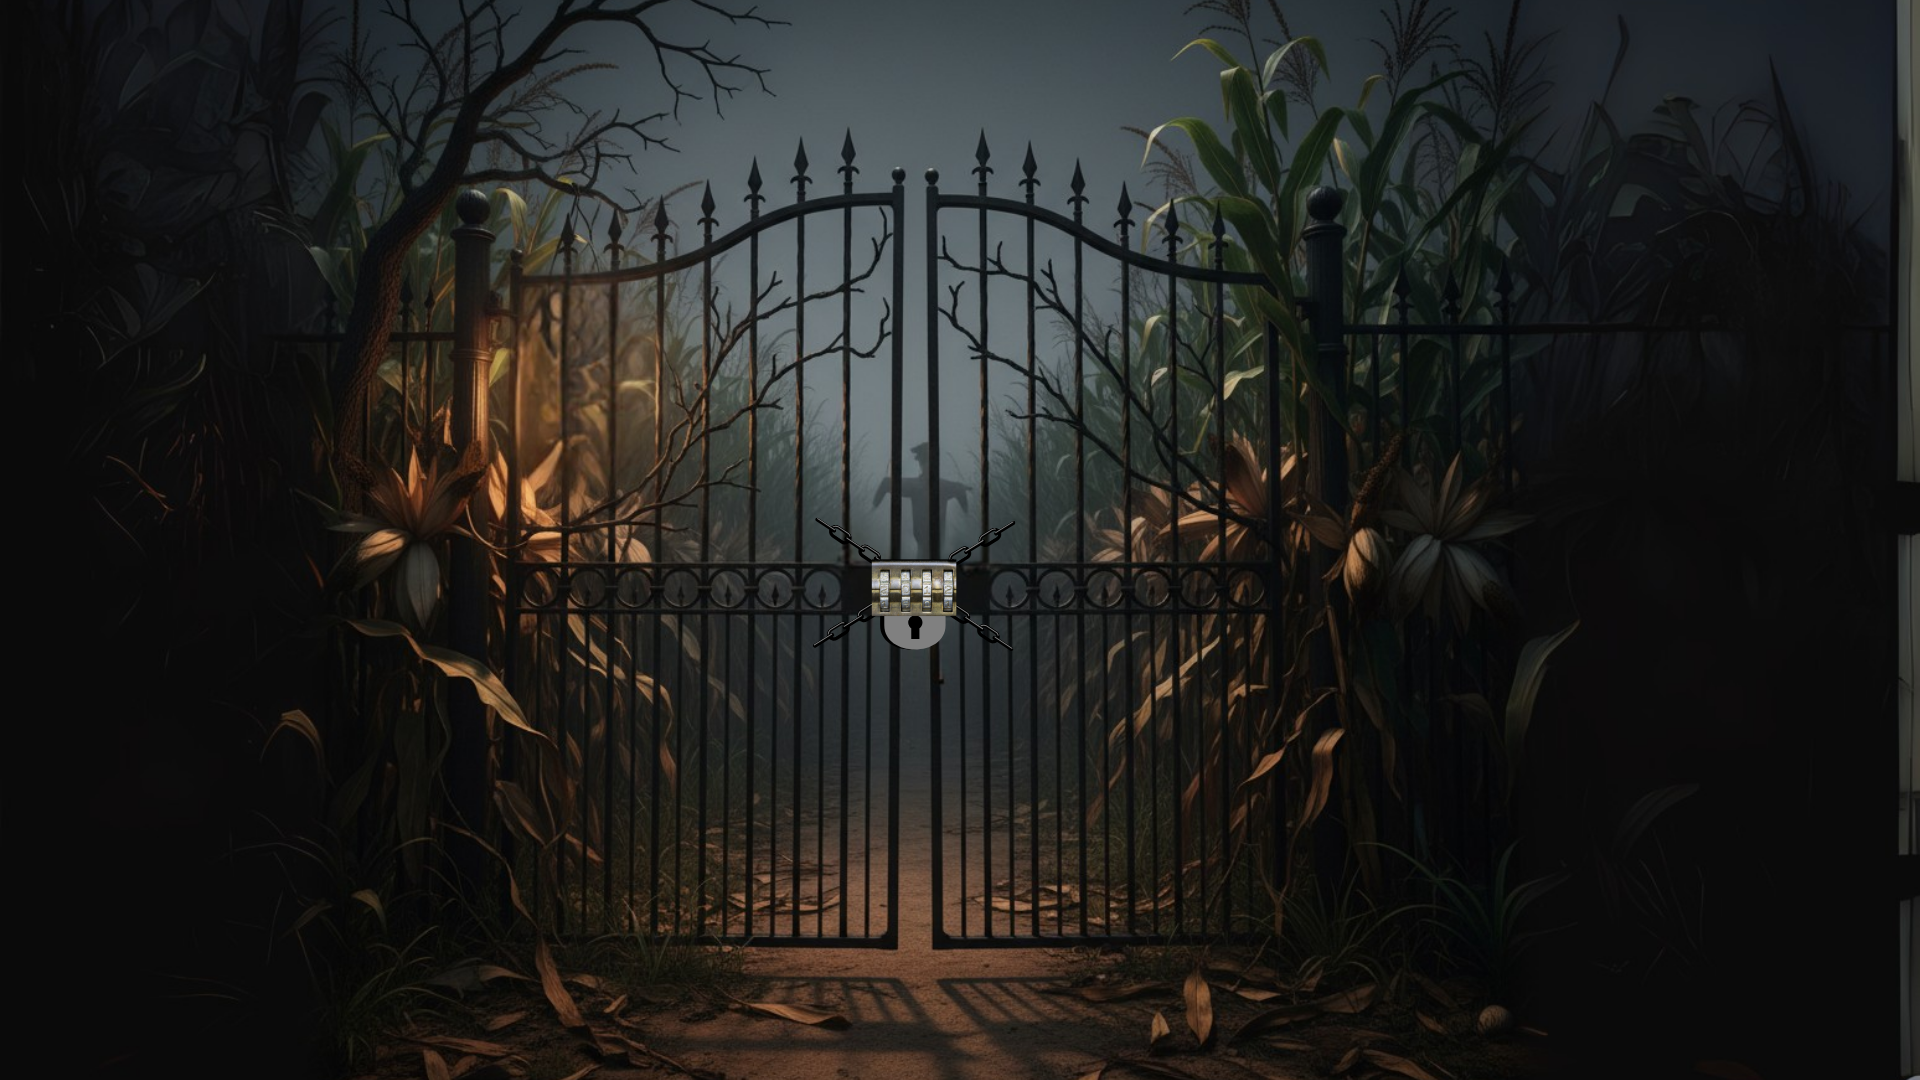
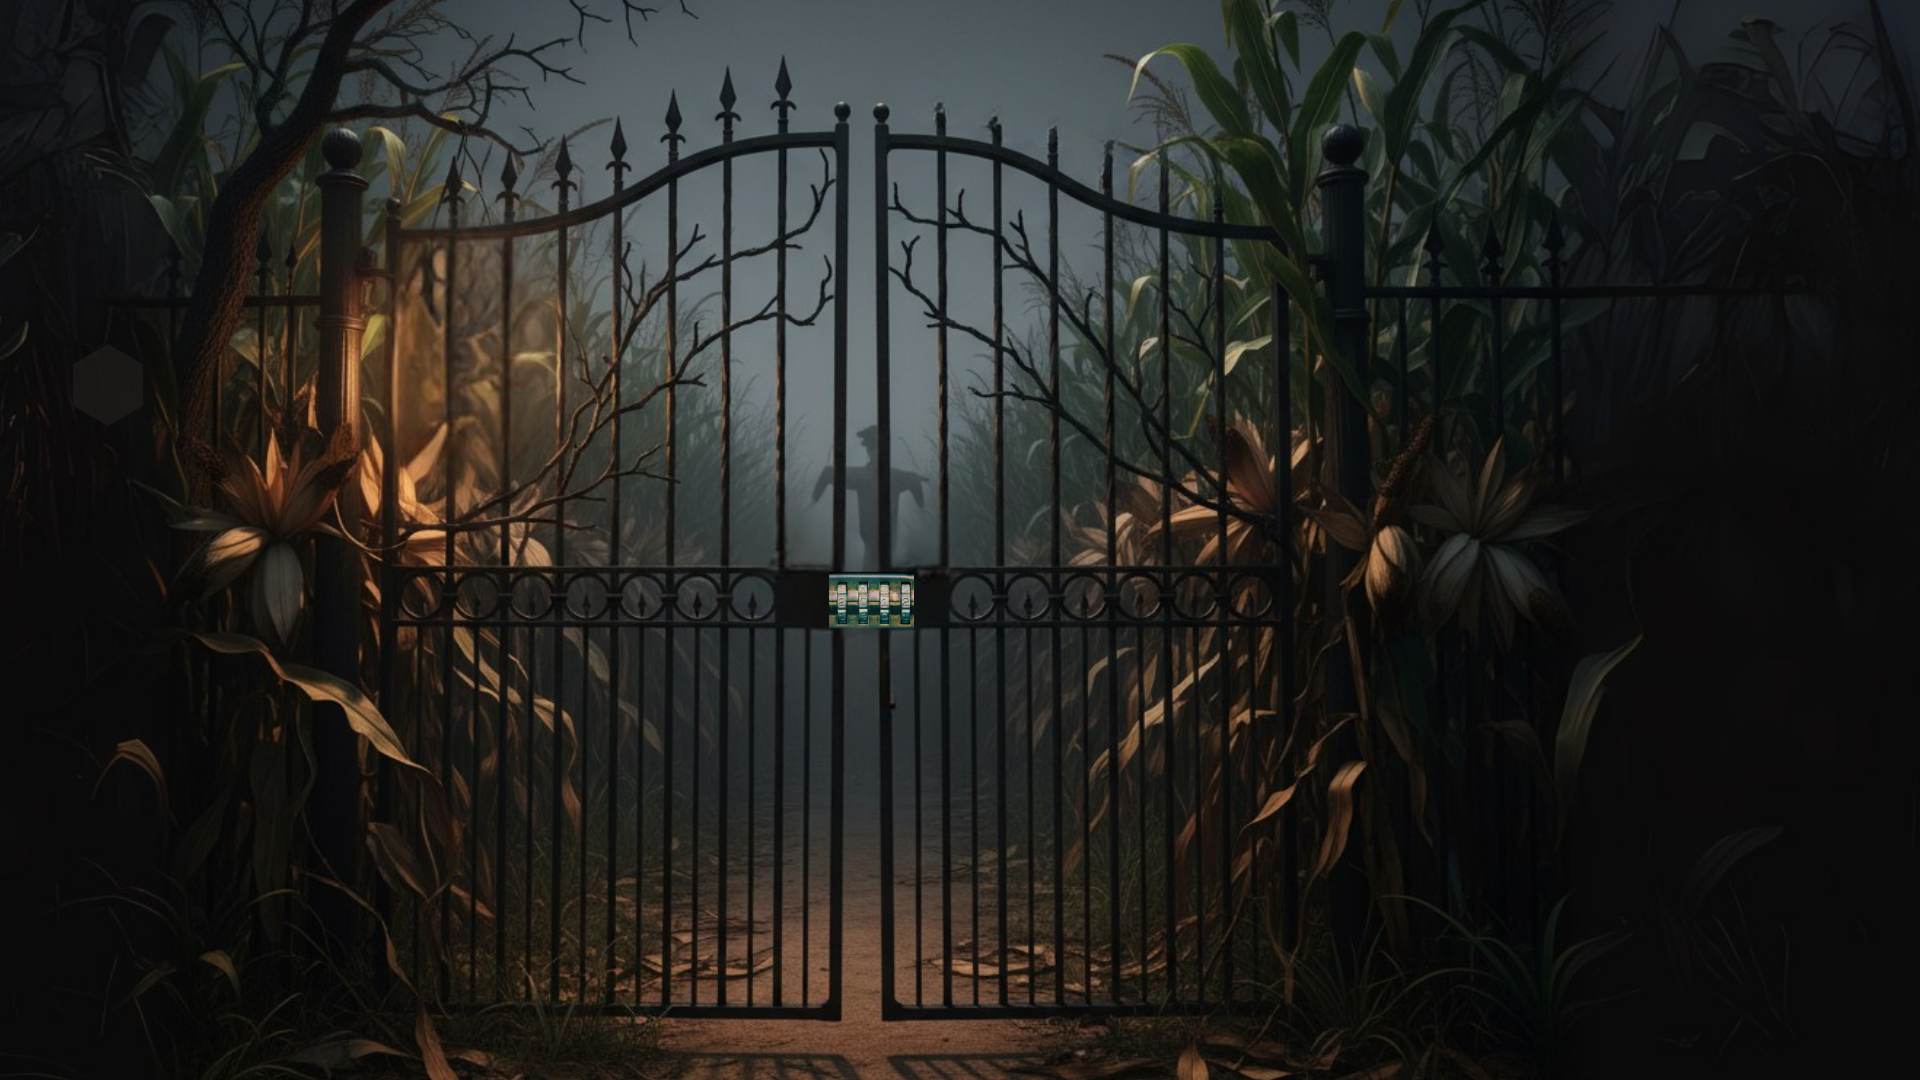
remove math, add riddles

diff --git a/maze/src/styles/Room5.scss b/maze/src/styles/Room5.scss
@@ -3,52 +3,87 @@
     min-height: 100dvh;
     width: 100%;
     background: center / cover no-repeat;
-    padding: clamp(12px, 2vw, 24px);
-
-    .clue-panel {
+    overflow: hidden;
+    color: #e9edf7;
+    /* --- Generic node styling --- */
+    .node {
         position: absolute;
-        left: clamp(10px, 3vw, 24px);
-        top: clamp(10px, 3vw, 24px);
-        width: min(92vw, 420px);
-        background: rgba(8, 10, 14, 0.55);
-        border: 1px solid rgba(255,255,255,0.08);
-        border-radius: 12px;
-        backdrop-filter: blur(4px);
-        color: #e7ecf4;
-        padding: clamp(12px, 2vw, 18px);
+        transform: translate(-50%, -50%);
+        z-index: 3;
+        pointer-events: none; /* container ignores clicks */
 
-        h2 {
-            margin: 0 0 10px;
-            font-size: clamp(18px, 2.2vw, 22px);
-            font-weight: 700;
-        }
-
-        .clue-list {
-            margin: 0 0 10px 18px;
-            padding: 0;
-
-            li {
-                margin: 6px 0;
-                line-height: 1.35;
-            }
-        }
-
-        .clue-note {
-            margin-top: 8px;
-            font-size: 0.95rem;
+        .node-btn {
+            --w: var(--nodeWidthPx, 160px);
+            width: var(--w);
+            height: clamp(32px, 5.6vh, 56px);
+            border-radius: 18px;
+            border: 1px solid rgba(255, 255, 255, 0.08);
+            background: rgba(20, 22, 30, 0.22);
+            backdrop-filter: blur(3px);
+            position: relative;
+            pointer-events: auto; /* button handles clicks */
+            cursor: pointer;
+            overflow: visible;
             opacity: 0.9;
+            transition: opacity 0.18s ease, border-color 0.18s ease;
 
-            strong {
-                letter-spacing: .05em;
+            &:hover {
+                opacity: 0.9;
+                border-color: rgba(255, 255, 255, 0.5);
+            }
+
+            .node-glow {
+                content: "";
+                position: absolute;
+                inset: -2px;
+                border-radius: inherit;
+                box-shadow: 0 0 12px 0 rgba(36, 158, 79, .6);
+                pointer-events: none;
+            }
+
+            .node-label {
+                position: absolute;
+                inset: 0;
+                display: grid;
+                place-items: center;
+                font-size: 12px;
+                letter-spacing: 0.08em;
+                text-transform: uppercase;
+                color: rgba(220, 230, 255, 0.14); /* subtle/hidden */
+                user-select: none;
             }
         }
+    }
+    /* --- Individual riddle node placement & sizing --- */
+    .node--thorn-gate {
+        left: 80%;
+        top: 33%;
+        --nodeWidthPx: 30px;
+    }
+
+    .node--hex-harvest {
+        left: 35%;
+        top: 82%;
+        --nodeWidthPx: 30px;
+    }
+
+    .node--web-row-end {
+        left: 40%;
+        top: 40%;
+        --nodeWidthPx: 30px;
+    }
+
+    .node--crow-crossroads {
+        left: 64%;
+        top: 34%;
+        --nodeWidthPx: 30px;
     }
     /* click node to open the lock page */
     .node-open-lock {
         --size: clamp(18px, 2.2vw, 22px);
         position: absolute;
-        right: 49.8%;
-        bottom: 41%;
+        right: 52%;
+        bottom: 40%;
         width: 80px;
         height: 50px;
         border-radius: 18px; /* rounded rectangle corners */
@@ -60,6 +95,95 @@
 
         &:hover {
             background: rgba(255,255,255,0.2);
+        }
+    }
+    /* --- Riddle modal --- */
+    .riddle-modal {
+        position: fixed;
+        inset: 0;
+        z-index: 20;
+
+        .backdrop {
+            position: absolute;
+            inset: 0;
+            background: rgba(0, 0, 0, 0.5);
+        }
+
+        .riddle-card {
+            position: absolute;
+            left: 50%;
+            top: 50%;
+            transform: translate(-50%, -50%);
+            width: min(92vw, 720px);
+            background: rgba(18, 20, 28, 0.92);
+            color: #e9edf7;
+            border: 1px solid rgba(255, 255, 255, 0.08);
+            border-radius: 16px;
+            box-shadow: 0 20px 60px rgba(0, 0, 0, 0.5);
+            overflow: hidden;
+        }
+
+        .riddle-head {
+            display: flex;
+            justify-content: space-between;
+            align-items: center;
+            padding: 14px 16px;
+            border-bottom: 1px solid rgba(255, 255, 255, 0.06);
+
+            h2 {
+                margin: 0;
+                font-size: clamp(16px, 2.2vw, 22px);
+            }
+
+            .close {
+                appearance: none;
+                border: none;
+                background: transparent;
+                color: #e9edf7;
+                font-size: 20px;
+                cursor: pointer;
+                line-height: 1;
+                padding: 6px;
+                border-radius: 8px;
+
+                &:hover {
+                    background: rgba(255, 255, 255, 0.08);
+                }
+            }
+        }
+
+        .riddle-text {
+            margin: 0;
+            padding: 16px;
+            white-space: pre-wrap;
+            font: 400 clamp(14px, 1.8vw, 16px) / 1.5 ui-sans-serif, system-ui, -apple-system, Segoe UI, Roboto, sans-serif;
+        }
+
+        .answer-note {
+            padding: 0 16px 12px;
+            color: rgba(190, 220, 255, 0.85);
+            font-size: 14px;
+        }
+
+        .riddle-actions {
+            display: flex;
+            justify-content: flex-end;
+            gap: 10px;
+            padding: 12px 16px 16px;
+
+            button {
+                appearance: none;
+                border: 1px solid rgba(255, 255, 255, 0.18);
+                background: rgba(12, 14, 22, 0.6);
+                color: #e9edf7;
+                padding: 8px 12px;
+                border-radius: 10px;
+                cursor: pointer;
+
+                &:hover {
+                    background: rgba(12, 14, 22, 0.75);
+                }
+            }
         }
     }
 }

diff --git a/maze/src/rooms/Room5.jsx b/maze/src/rooms/Room5.jsx
@@ -1,24 +1,79 @@
-import { useNavigate } from "react-router-dom";
-import "./../styles/Room5.scss";
+import { useState } from "react";
+import { useNavigate } from "react-router-dom";
+import "../styles/Room5.scss";
 
-// ✅ make sure this file exists at src/assets/backgrounds/room5_bg.png
-import bg from "../assets/backgrounds/room5_bg.png";
+import room5Bg from "../assets/backgrounds/room5_bg.png";
+
+const NODES = [
+    {
+        id: "thorn-gate",
+        title: "Slot 1",
+        riddle:
+            "At the maze’s end, the iron waits,\nIts crown of points seals shut the gates.\nSharp as teeth, they pierce the sky -\nOnly those who see can pass by.",
+        answer: "7",
+    },
+    {
+        id: "hex-harvest",
+        title: "Slot 2",
+        riddle:
+            "Painted on a barn by the edge of the maze,\nA charm against blight and ill-willed gaze.\nSix petals circle, warding the night -\nHow many points hold back the fright?",
+        answer: "6",
+    },
+    {
+        id: "web-row-end",
+        title: "Slot 3",
+        riddle:
+            "Where moonlight threads and gloom,\nA silver web is strung like loom.\nIts maker waits, both still and sly -\nCount the legs that guard nearby.",
+        answer: "8",
+    },
+    {
+        id: "crow-crossroads",
+        title: "Slot 4",
+        riddle:
+            "Where crows debate which way to soar,\nThe path splits clean no more.\nChoose with care or wander more -\nHow many ways from the crossing core?",
+        answer: "4",
+    },
+];
+
+const RiddleModal = ({ open, node, onClose }) => {
+    if (!open || !node) return null;
+    return (
+        <div className="riddle-modal" role="dialog" aria-modal="true">
+            <div className="riddle-card">
+                <div className="riddle-head">
+                    <h2>{node.title}</h2>
+                    <button className="close" onClick={onClose} aria-label="Close">✕</button>
+                </div>
+                <pre className="riddle-text">{node.riddle}</pre>
+                <div className="riddle-actions">
+                    <button onClick={onClose}>Close</button>
+                </div>
+            </div>
+            <div className="backdrop" onClick={onClose} />
+        </div>
+    );
+};
 
 export default function Room5() {
+    const [openNode, setOpenNode] = useState(null);
     const nav = useNavigate();
 
     return (
-        <div className="room5" style={{ backgroundImage: `url(${bg})` }}>
-            {/* Clues are always visible on this page */}
-            <aside className="clue-panel">
-                <h2>Resolve for each digit</h2>
-                <ul className="clue-list">
-                    <li>Double 5, then remove 3</li>
-                    <li>Product of 3 and 2</li>
-                    <li>Add 9 to 6 roll back 7</li>
-                    <li>Double up on 2</li>
-                </ul>
-            </aside>
+        <div className="room5" style={{ backgroundImage: `url(${room5Bg})` }}>
+            {/* Riddle nodes */}
+            {NODES.map((n) => (
+                <div key={n.id} className={`node node--${n.id}`}>
+                    <button
+                        className="node-btn"
+                        onClick={() => setOpenNode(n)}
+                        aria-label={n.title}
+                        title="Open riddle"
+                    >
+                        <span className="node-glow" aria-hidden />
+                        <span className="node-label" aria-hidden />
+                    </button>
+                </div>
+            ))}
 
             {/* Clickable node that opens the lock page */}
             <button
@@ -27,6 +82,8 @@ export default function Room5() {
                 aria-label="Open the combo lock"
                 title="Open the combo lock"
             />
+
+            <RiddleModal open={!!openNode} node={openNode} onClose={() => setOpenNode(null)} />
         </div>
     );
 }
